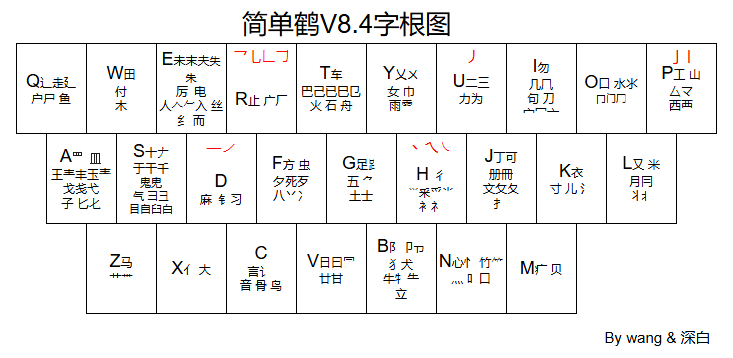
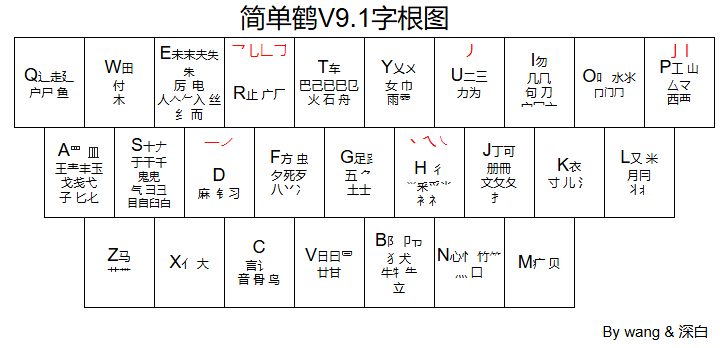
增加无理码说明

diff --git a/src/irregular.md b/src/irregular.md
@@ -1,0 +1,101 @@
+取自 简单鹤无理码及简词说明 By 简单
+
+## 一、简词说明：
+1. 简词未必会铺满，在长期打字中，我感觉用不到的，我就不加了。
+2. 当词频类似，优先加手感差的，其次考虑简词好对应的。
+3. 所有简词均做了全码，简单鹤词频不搞出简让全，所以不要求掌握记忆，记住哪些打哪些，锦上添花。
+4. 简词的排序，与词频无关，只与对应有关。我们最终是为了打字的体验，以及记忆的易维持，要懂得思考背后的安排。词频是没有意义的。
+5. 三简不用管，这是为了手机上输入方便点，平时挂接打全码才是最舒适的体验。或者只打语气词或连接词这种，如“了一个”“比如说”，随用随熟。
+
+## 二、无理部分：
+如何看待无理？我认为，无理应该安排超高频的简词，这样它在哪里都无所谓的。
+你问我忘了怎么办？
+忘了就说明重复次数不够，说明它对你没那么高频，那忘了就忘了吧。
+完美逻辑闭环。
+
+1. qo和xo，是qx和xq的飞键，仅这两个飞键我强制规范用户记住，因为原按键过于奇葩。故相关的简词也对应调整，但也做了容错。
+
+2. 有不少末尾含“一”的简词，放在了e上。现统计如下：
+we 唯一 万一
+de 第一
+le 了一 另一
+ve 之一
+me 每一
+
+3. “一”开头的量词，以“e”开始。现统计如下：
+eq 一起 一切
+ew 一位
+et 一天
+ey 一眼
+eu 一声 一生
+ei 一场
+ep 一片
+es 一丝
+ed 一旦
+ef 一份 一副
+eg 一股 一根
+eh 一行
+ej 一件 一句
+ek 一块
+ev 一种 一阵 一只
+eb 一般 一边 一半
+en 一年
+em 一名
+
+这里有一些超高频的简词，放在了y开头的，这些最好是要掌握起来，实际上讲，我个人除了eq外，几乎不打e开头的简词。
+另外，“一”开头的量词，除了e引导的简外，最好是拆开打。不过也有专属的简码，似乎上百个，如eitd一台，等等。
+
+yy 一样
+yd 一定 一点
+yg 一个
+yx 一下 一些
+yc 一次
+yv 一直
+
+这些词不要求掌握，真正打字时，很可能拆成了“一”加量词的形式，随用随熟即可。
+
+强调一下，有关于“一”的词，只有2字词有e的设定，其他长度的没有。几和百是同理。
+
+4. 我随便加的，超高频，肯定忘不了就是了：
+yp 一个人 有时候 一会儿
+dp 到时候 的时候（duh打三简也很好，几乎并击秒出，看个人习惯，主要是为了对应x时候）
+vp 这时候
+np 那时候
+jf 不知道
+uo 时间 世界 说：“
+
+5. s和sh的无理：
+js 就是
+bs 不是
+ms 马上 没事 模式
+ls 脸上
+sj 手机
+sb 上班
+sm 什么 上面 生命
+ss 试试
+sh 说话 时候 似乎
+sy 使用
+
+6. c和ch的无理：
+jc 经常
+
+7. z和zh的无理：
+zy 重要
+
+8. 有关“实”的无理：
+sj 实际
+sl 实力
+sx 实现
+xs 现实
+
+## 三、无理单字：
+o 也
+p 得 道 道：“
+s 时
+f 能
+je 及（唯一的一个二码，忘了也无所谓，本来也在四码）
+jo 几（以及相关词）
+be 百（以及相关词）
+
+## 四、二简次选：
+爸 妈 哥 姐 弟 妹

diff --git a/src/tutorial.md b/src/tutorial.md
@@ -15,7 +15,7 @@
 例如：由 = 日 + 丨， 平 = 一 + 十， 虫 = 虫 + 虫
 
 ### 无理码
-请自行探索，如：也o 及je
+详见 [无理码](/irregular.md)
 
 ### 入门步骤
 1. 使用字根练习器练习简单鹤字根
@@ -23,7 +23,7 @@
 3. 打文章练习
 
 ### 下载
-码表：https://github.com/Flauver/jdh/releases/download/v9.0.0/jdhmb9.0.0.7z
+码表：https://github.com/Flauver/jdh/releases/download/v9.1.0/jdhmb9.1.0.7z
 由简单鹤群友 Cloud 维护的Rime方案，包括了四码定长和可句中插入辅助码的整句方案：https://github.com/GGboxCloud/rime-JDhe
 
 ![字根图](/zgt.png)
